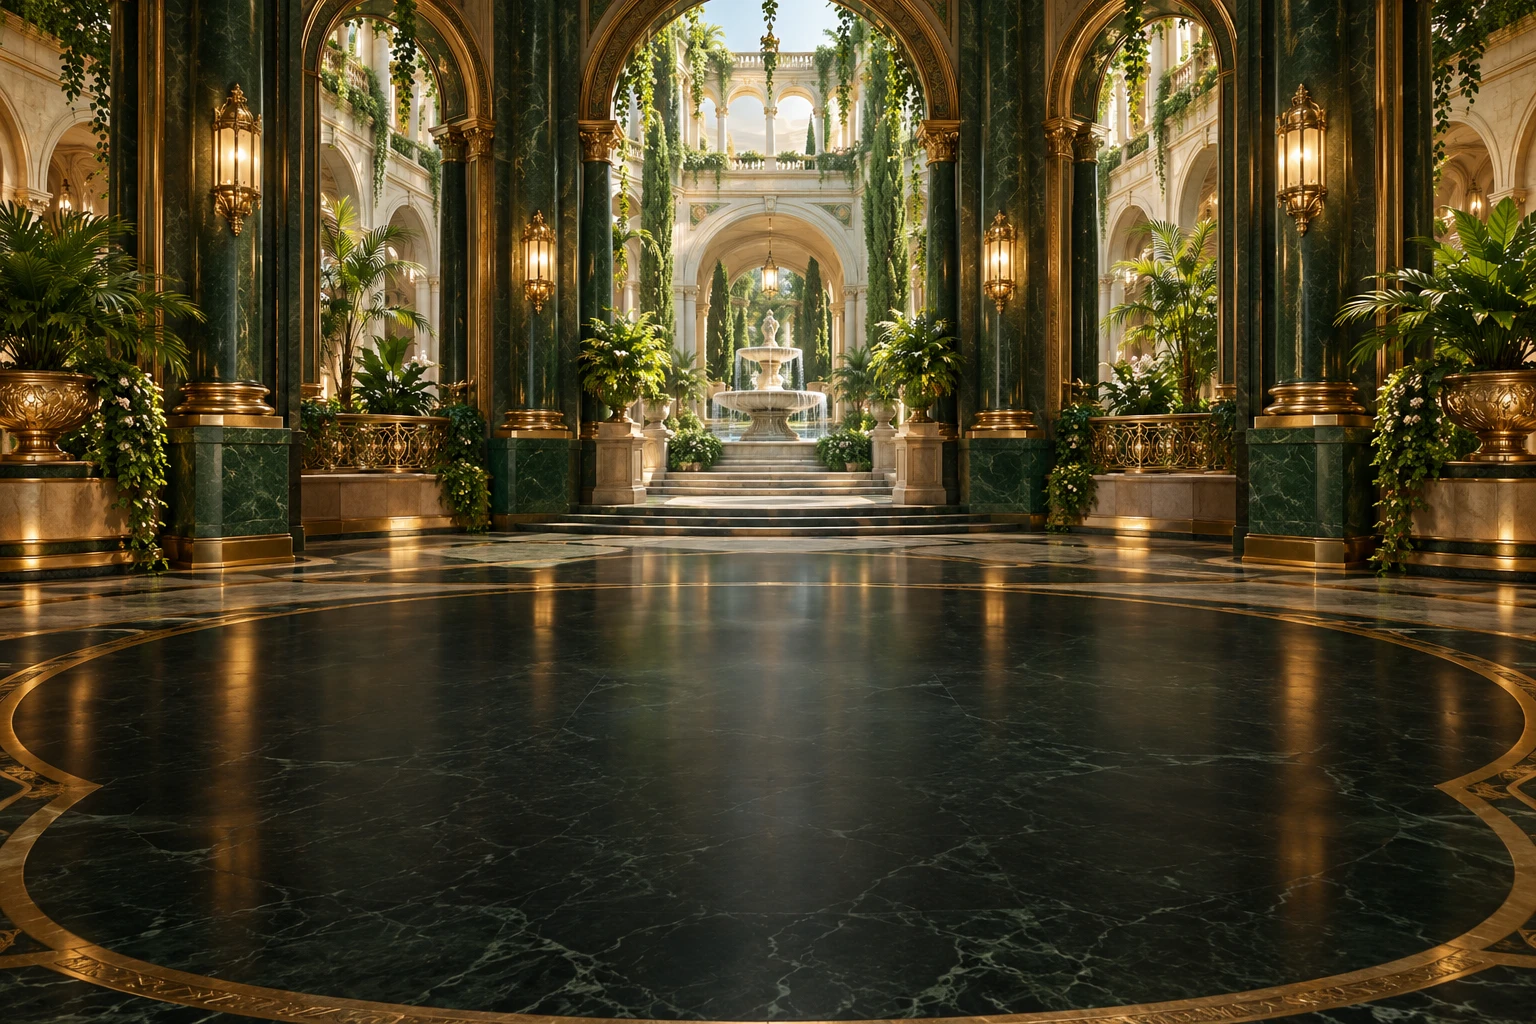
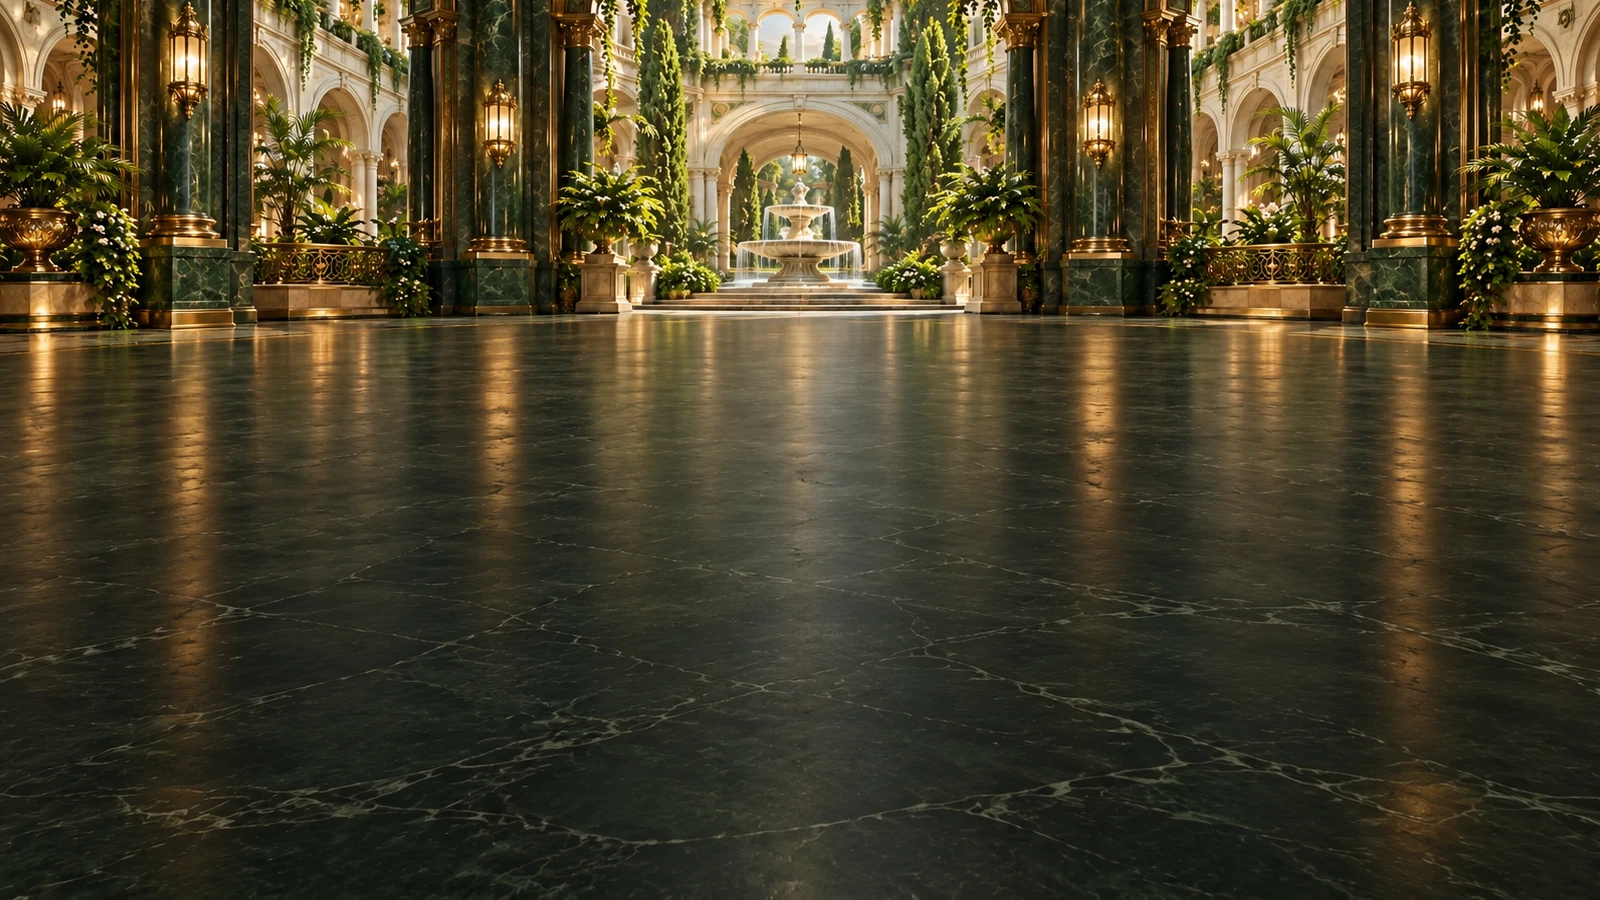
fix(poker): ground five themed rooms with corrected floor perspective

diff --git a/specs/792-premium-table-themes/perspective.md b/specs/792-premium-table-themes/perspective.md
@@ -1,0 +1,70 @@
+# Five room floor-plane corrections — 2026-10-10
+
+Owner requested background-only correction on Draft PR#1076. Runtime scope is exactly five existing room.webp files; no CSS, JS, dealer, table surface, card, frame, Classic or geometry change. Baseline commit92c554e65cc0bf0788e1a7a5fd9cb7c3a96ac491.
+
+## Measurements and selected composition
+
+Classic source1600×900; alternatives formerly1536×1024. Floor-wall junctions were estimated visually at the central rear plane (±20sourcepx before, ±10px after); this junction is **not the optical horizon**. Rendering bounds/center-cover mapping are measured exactly. No source camera/lens/physical dimensions exist, so this is art registration and composite review rather than recovered physical camera calibration or a mathematically unique optimum.
+
+Center-cover projection: scale=max(viewWidth/imageWidth,viewHeight/imageHeight); offsetY=(viewHeight-imageHeight×scale)/2; renderedFloorY=sourceFloorY×scale+offsetY.
+
+Classic rear-floor row350/900≈38.9% projects to≈328px portrait,142px landscape,350px desktop. Royal old centralrow was already close toClassic (338/139/354px), so its remaining visual issue involves architectural scale/depth and exaggerated near columns/reflections, not a row/aspect-ratio explanation alone. Neon/Sapphire rear boundaries were lower, Crimson/Emerald much lower, and foreground oval rings/steps further competed with the overlaid table.
+
+Royal first edit was inspected at390×844,844×390,1440×900 before generating other variants. Selected final16:9 composition uses≈34–36% rear-floor position, restrained distant furniture/columns/reflections and a continuous receding foreground floor. Floor covers≈64–66% of artwork. Near oval rugs/rings and raised platforms removed; Emerald distant fountain steps remain in the far architectural feature, outside the playing foreground. Hand-height suggestion was treated as a visual guide, not imposed as one pixel row across different responsive crops.
+
+| Theme | Before source floor row | After source floor row | Portrait before→after | Landscape before→after | Desktop before→after |
+|---|---:|---:|---:|---:|---:|
+| royal-gold | ~410/1024 | ~315/900 | ~338→295px | ~139→124px | ~354→315px |
+| neon-vegas | ~465/1024 | ~310/900 | ~383→291px | ~169→121px | ~406→310px |
+| midnight-sapphire | ~475/1024 | ~320/900 | ~392→300px | ~175→126px | ~415→320px |
+| crimson-velvet | ~600/1024 | ~320/900 | ~495→300px | ~243→126px | ~533→320px |
+| emerald-palace | ~565/1024 | ~315/900 | ~466→295px | ~224→124px | ~500→315px |
+
+## Validation
+
+Local before/after Chromium:18scenes (six choices×three viewports),18protected bounds exactly equal, card text unchanged, no page errors/overflow; background-position and background-size remain identical. SHA audit: only five rooms changed;33inventoried non-room files byte-identical (JS/CSS/Classic/dealers/vectors included). Existing syntax exits0; CSP guard52documents passes. No maintained UI/glue suite added. Native composite inspection checks furniture-floor contact cues, dealer/table grounding, style, readability and unobstructed foreground. Independent/exact Preview evidence in review.md. Earlier authenticated dealing/showdown/reconnect limitations remain; this correction does not change those paths.
+
+## Current corrected room inventory
+
+This supersedes earlier room.webp entries and package totals in artwork.md; all other layers retain their earlier recorded hashes. Every room1600×900 WebP, built-in imagegen edit of its prior room with Classic used only as composition reference. No API key/third-party pack/remote runtime art. Existing Sharp WebPquality90; Royal generated1672×941 exported with aspect-preserving cover resize; other four generated1672×941 have a small final artwork registration crop(left36,top41,width1600,height900), encoded directly, with no stretch or runtime position change. OpenAI terms source remains artwork.md.
+
+| Path | Dimensions | Bytes | SHA-256 | Current complete package bytes |
+|---|---|---:|---|---:|
[5 lines of base64/hex data omitted]
+
+## Exact built-in imagegen edit prompts
+
+### royal-gold
+
[1 lines of base64/hex data omitted]
+
+> Use case: precise-object-edit. High-quality production room background perspective correction for a poker game. Input image 1 is Classic Casino, ONLY the composition/camera/floor-plane reference. Input image 2 is the existing themed room to EDIT, preserve its distinctive architecture, palette, materials and lighting. Output a wide 16:9 1600x900 background. Correct the camera/composition so a seated player slightly looking down at an overlaid poker table sees a broad, continuous near floor. Match Classic's grounded camera and architectural scale; move the distant architecture higher in the artwork, reduce towering wall height, shorten exaggerated reflection lengths. Rear wall/window bottoms meet floor around y=315 of900 (35% from top; acceptable33–36%). Bottom65% is an uninterrupted receding dark floor plane. Floor lines converge coherently toward the centered upper-third distance. Distant furniture/pillars must sit firmly on the same floor. Do not add nearby raised platforms, steps, giant circular/oval rugs or ring outlines; they misregister against the overlaid table. Preserve premium crisp realistic detail, restrained reflections, visual quiet foreground. No people, dealer, poker table, cards, chips, UI, letters or logos. Change the room perspective, not its theme identity. Theme to preserve: Royal Gold, warm black-marble/gold Art Deco salon, chandeliers, gold columns and arched nighttime city windows.
+
+### neon-vegas
+
[1 lines of base64/hex data omitted]
+
+> Use case: precise-object-edit. High-quality production room background perspective correction for a poker game. Input image 1 is Classic Casino, ONLY the composition/camera/floor-plane reference. Input image 2 is the existing themed room to EDIT, preserve its distinctive architecture, palette, materials and lighting. Output a wide 16:9 1600x900 background. Correct the camera/composition so a seated player slightly looking down at an overlaid poker table sees a broad, continuous near floor. Match Classic's grounded camera and architectural scale; move the distant architecture higher in the artwork, reduce towering wall height, shorten exaggerated reflection lengths. Rear wall/window bottoms meet floor around y=315 of900 (35% from top; acceptable33–36%). Bottom65% is an uninterrupted receding dark floor plane. Floor lines converge coherently toward the centered upper-third distance. Distant furniture/pillars must sit firmly on the same floor. Do not add nearby raised platforms, steps, giant circular/oval rugs or ring outlines; they misregister against the overlaid table. Preserve premium crisp realistic detail, restrained reflections, visual quiet foreground. No people, dealer, poker table, cards, chips, UI, letters or logos. Change the room perspective, not its theme identity. Theme to preserve: Neon Vegas: modern violet/cyan/magenta neon penthouse casino, nighttime Vegas skyline/palm silhouettes, chrome/dark marble. Retain neon identity and architectural lighting; no warm-gold Classic style transfer.
+
+### midnight-sapphire
+
[1 lines of base64/hex data omitted]
+
+> Use case: precise-object-edit. High-quality production room background perspective correction for a poker game. Input image 1 is Classic Casino, ONLY the composition/camera/floor-plane reference. Input image 2 is the existing themed room to EDIT, preserve its distinctive architecture, palette, materials and lighting. Output a wide 16:9 1600x900 background. Correct the camera/composition so a seated player slightly looking down at an overlaid poker table sees a broad, continuous near floor. Match Classic's grounded camera and architectural scale; move the distant architecture higher in the artwork, reduce towering wall height, shorten exaggerated reflection lengths. Rear wall/window bottoms meet floor around y=315 of900 (35% from top; acceptable33–36%). Bottom65% is an uninterrupted receding dark floor plane. Floor lines converge coherently toward the centered upper-third distance. Distant furniture/pillars must sit firmly on the same floor. Do not add nearby raised platforms, steps, giant circular/oval rugs or ring outlines; they misregister against the overlaid table. Preserve premium crisp realistic detail, restrained reflections, visual quiet foreground. No people, dealer, poker table, cards, chips, UI, letters or logos. Change the room perspective, not its theme identity. Theme to preserve: Midnight Sapphire: refined navy/sapphire salon, cool silver diamond geometry, moonlit skyline/water view. Retain cool blue/silver identity; no warm-gold Classic style transfer.
+
+### crimson-velvet
+
[1 lines of base64/hex data omitted]
+
+> Use case: precise-object-edit. High-quality production room background perspective correction for a poker game. Input image 1 is Classic Casino, ONLY the composition/camera/floor-plane reference. Input image 2 is the existing themed room to EDIT, preserve its distinctive architecture, palette, materials and lighting. Output a wide 16:9 1600x900 background. Correct the camera/composition so a seated player slightly looking down at an overlaid poker table sees a broad, continuous near floor. Match Classic's grounded camera and architectural scale; move the distant architecture higher in the artwork, reduce towering wall height, shorten exaggerated reflection lengths. Rear wall/window bottoms meet floor around y=315 of900 (35% from top; acceptable33–36%). Bottom65% is an uninterrupted receding dark floor plane. Floor lines converge coherently toward the centered upper-third distance. Distant furniture/pillars must sit firmly on the same floor. Do not add nearby raised platforms, steps, giant circular/oval rugs or ring outlines; they misregister against the overlaid table. Preserve premium crisp realistic detail, restrained reflections, visual quiet foreground. No people, dealer, poker table, cards, chips, UI, letters or logos. Change the room perspective, not its theme identity. Theme to preserve: Crimson Velvet: burgundy velvet curtains, mahogany/antique gold private salon, warm lamps and the elegant sculpture niche. Reduce wall/niche scale to distant furnishings, all floor level, no platform.
+
+### emerald-palace
+
[1 lines of base64/hex data omitted]
+
+> Use case: precise-object-edit. High-quality production room background perspective correction for a poker game. Input image 1 is Classic Casino, ONLY the composition/camera/floor-plane reference. Input image 2 is the existing themed room to EDIT, preserve its distinctive architecture, palette, materials and lighting. Output a wide 16:9 1600x900 background. Correct the camera/composition so a seated player slightly looking down at an overlaid poker table sees a broad, continuous near floor. Match Classic's grounded camera and architectural scale; move the distant architecture higher in the artwork, reduce towering wall height, shorten exaggerated reflection lengths. Rear wall/window bottoms meet floor around y=315 of900 (35% from top; acceptable33–36%). Bottom65% is an uninterrupted receding dark floor plane. Floor lines converge coherently toward the centered upper-third distance. Distant furniture/pillars must sit firmly on the same floor. Do not add nearby raised platforms, steps, giant circular/oval rugs or ring outlines; they misregister against the overlaid table. Preserve premium crisp realistic detail, restrained reflections, visual quiet foreground. No people, dealer, poker table, cards, chips, UI, letters or logos. Change the room perspective, not its theme identity. Theme to preserve: Emerald Palace: green marble/gold arches, greenery, elegant distant fountain and warm daylight. Retain jade green palace identity. Far fountain sits beyond continuous floor; no steps/stairs/raised thresholds in foreground.
+

diff --git a/specs/792-premium-table-themes/review.md b/specs/792-premium-table-themes/review.md
@@ -114,3 +114,11 @@ All six selections × 390×844, 844×390, 1440×900 passed actual Preview Chromi
 Temporary evidence remains outside repository: /tmp/1076-local-all-report.json, /tmp/1076-remote-all-report.json, scene screenshots and waist crops. No maintained UI/CSS/glue suite was added. Independent final review is documented above; no critical/important issue.
 
 The following evidence commit changes only feature documentation/task status; verified commit paths contain no deployable runtime/configuration change, so the exact runtime Preview evidence remains valid. T017 satisfied; T011/T013 only retain manual authenticated live scope. Implementation ready, awaiting manual runtime verification; PR stays Draft.
+
+## Five background floor-plane corrections — 2026-10-10
+
+Scope: exactly five existing room.webp files plus feature documentation. Classic1600×900 has a visually estimated central floor junction near38.9%; original alternatives1536×1024 had near40–59%. Exact cover mapping at portrait gave≈328px Classic vs338–495px alternatives. Royal already had similar centralrow, so its correction also addresses architectural scale/depth/contact cues and reflection length. These visual estimates do not recover a physical camera calibration. Measurements, uncertainty, chosen proportions and exact prompts are in perspective.md.
+
+Built-in imagegen edits preserve each room’s identity and produce continuous receding foreground floors without competing oval rugs/raised platforms. Royal first candidate inspected in all three viewports before other edits. Final local rooms1600×900, approximate rear-floor rows310–320/900 (34–36%), within all budgets. All non-room files byte-identical; local inventory SHA audit found exactly five changed runtime assets and33unchanged inventoried files, including JS/CSS/Classic/dealers/vectors. No background-position/size or scene geometry edits.
+
+Temporary Chromium before/after capture18scenes (all six choices×390×844/844×390/1440×900):18protected bounds exactly equal, card text unchanged, no overflow/page errors; CSS background-position/size identical. Existing node syntax check exits0; CSP guard52served documents passes. Temporary static inspection tools/captures remain outside repository. Final independent review inspected all five corrected rooms at all three targets, confirmed improved grounding/style/no obstruction/budget compliance; no critical/important findings. Exact published Preview validation follows after push. Existing live authenticated dealing/showdown/reconnect limits remain pending; Draft retained.

diff --git a/specs/792-premium-table-themes/artwork.md b/specs/792-premium-table-themes/artwork.md
@@ -164,3 +164,19 @@ Room generation:
 
 > Use case: stylized-concept. Production high-quality photoreal casino room background, wide landscape 3:2 composition. opulent emerald palace casino salon, green marble and gold architecture, lush greenery, elegant arches and small distant fountain, warm daylight. Match a premium poker game's sophisticated realistic cinematic art direction. Symmetrical centered view with quiet dark central lower space for an overlaid poker table and dealer. Rich material texture, restrained atmospheric lighting, coherent perspective. Empty room: NO people, NO dealer, NO poker table in foreground, NO cards, NO chips, NO UI, NO text or logos. Architecture and lighting only.
 
+
+## Current five-room perspective replacement — 2026-10-10
+
+The room entries/package totals earlier in this historical record are superseded by [perspective.md](perspective.md), which records current1600×900 room hashes/bytes/budgets, reference measurements, output crop registration and exact built-in imagegen prompts. All non-room layers, Classic, JS and CSS stay byte-identical.
+
+## Current corrected room inventory
+
+This supersedes earlier room.webp entries and package totals in artwork.md; all other layers retain their earlier recorded hashes. Every room1600×900 WebP, built-in imagegen edit of its prior room with Classic used only as composition reference. No API key/third-party pack/remote runtime art. Existing Sharp WebPquality90; Royal generated1672×941 exported with aspect-preserving cover resize; other four generated1672×941 have a small final artwork registration crop(left36,top41,width1600,height900), encoded directly, with no stretch or runtime position change. OpenAI terms source remains artwork.md.
+
+| Path | Dimensions | Bytes | SHA-256 | Current complete package bytes |
+|---|---|---:|---|---:|
[5 lines of base64/hex data omitted]

diff --git a/specs/792-premium-table-themes/plan.md b/specs/792-premium-table-themes/plan.md
@@ -86,3 +86,7 @@ Regenerate only Royal Gold dealer art as a high-fidelity edit of the restored sp
 ## Complete six-package implementation
 
 Royal Gold checkpoint accepted by owner; RG06 satisfied. Complete four remaining packages using separate built-in imagegen dealer edits/empty rooms and original approved circuit/diamond/damask/jade-lattice vectors. All six catalog entries enabled; Classic remains unchanged. Reuse existing requested-only atomic loader/chooser and scoped CSS, including the full-torso foreground clip. Constitution Check against final runtime paths: PASS — browser art only, no geometry, new suites, dependencies/config, backend/WS/protocol, Stage or Production changes. Exact Preview and manual live limits recorded in review.md.
+
+## Floor-plane correction — images only
+
+Five room.webp replacements only under existing poker/assets/themes IDs. Compare source floor/wall junction estimates and exact center/cover projection against Classic1600×900; use its16:9 composition with a rear transition target around33–36% of image height and coherent receding foreground floor. These are visual registration estimates, not recovered physical camera calibration. Validate Royal first before editing the other rooms with built-in imagegen (Classic composition reference + existing room edit target). Remove foreground oval rug/step contours that imply a second table/raised platform. Encode existing local paths1600×900 WebP within600KiB; inspect every output in all three target viewports. No geometry/CSS/JS/Classic/dealer/vector/configuration/backend edits. Retain original images outside repository for before/after comparison. Constitution Check: PASS; temporary ad-hoc inspection outside repository, existing syntax/CSP checks, no new suites/dependencies/Stage effect. Record exact-room dimensions/hash/bytes/prompts and measured before/after floor rows, then verify same-PR exact-SHA Preview and independent review.

diff --git a/specs/792-premium-table-themes/tasks.md b/specs/792-premium-table-themes/tasks.md
@@ -73,3 +73,11 @@ The owner checkpoint in approval.md splits Phase 3 delivery. Full T007–T017 st
 ## Six-theme completion evidence
 
 All six packages implemented; RG06 accepted. T011/T013 remain partial only for authenticated live guest/spectator/reconnect/dealing/showdown/fold and comprehensive live-state contrast, to be inspected manually on Preview. Demo six-theme/error/race/reset/non-preview gates, protected geometry/card text, keyboard and reduced motion have been verified locally; exact-SHA Preview verification passed (T017), including all six packages, unchanged geometry/cards, error/race/reset/reload, keyboard/reduced motion, served raster hashes and native/high-DPI waist inspection. No new maintained test suites.
+
+## Owner-requested floor perspective correction
+
+- [x] FP01 Reproduce/measure original room aspect ratios, visual floor-wall transitions and center/cover mapping against Classic across390×844,844×390,1440×900; preserve baseline hashes/bounds outside repository.
+- [x] FP02 Edit Royal Gold room artwork with built-in imagegen against Classic composition, inspect proposed floor proportions in scene before producing other variants.
+- [x] FP03 Correct Neon/Sapphire/Crimson/Emerald room artwork using validated proportions; preserve styles and all non-room bytes; update current artwork manifest/prompts/budgets.
+- [x] FP04 Verify all five corrected floors in local portrait/landscape/desktop, unchanged protected geometry/card text/non-room hashes and existing checks; obtain independent review.
+- [ ] FP05 Publish five room replacements and feature docs on same Draft PR#1076; verify exact-SHA Preview/native scene/hash evidence, retain prior live-smoke limits.

diff --git a/specs/792-premium-table-themes/spec.md b/specs/792-premium-table-themes/spec.md
@@ -92,3 +92,7 @@ Players can read values, suits, names and actions on every package at existing c
 - Design boards are approval artifacts, not final geometry proof or ready-to-ship asset atlases. Final per-layer exports will be inspected at native size after approval.
 - Original generated artwork can be used for commercial project art subject to the provider terms; no exclusivity or third-party rights clearance is asserted. Provenance and export processing are recorded per file.
 - No Stage mutation or Production effect is intended. Netlify Deploy Preview is the only deployment target.
+
+## Owner-requested room perspective correction — 2026-10-10
+
+Correct only the five alternative room.webp images: the table/dealer appears too high above the background floor. Use Classic Casino as the composition/crop reference, measure source floor/wall transition and existing rendered geometry at portrait/landscape/desktop, then choose revised proportions by actual in-scene inspection. Do not move/resize table, dealer, hands, cards, HUD, controls or change CSS/JS/background-position/size. Preserve each room's accepted palette/materials/architecture; Classic and all non-room layers remain byte-identical.

diff --git a/specs/792-premium-table-themes/approval.md b/specs/792-premium-table-themes/approval.md
@@ -17,3 +17,7 @@ Owner checkpoint feedback: overall Royal Gold direction liked; replace the high-
 ## Remaining themes authorized — 2026-10-09
 
 Owner accepted the fuller generated Royal Gold dealer and its rail occlusion: “Super, to teraz implementuj pozostale motywy na tym samym pr.” RG06 is satisfied. Complete Neon Vegas, Midnight Sapphire, Crimson Velvet and Emerald Palace on Draft PR #1076 using the accepted full-torso Royal Gold identity/pose as the dealer reference.
+
+## Background perspective correction authorized — 2026-10-10
+
+Owner reported a floating table/dealer impression in all five alternatives, contrasted with Classic, and explicitly requested measuring perspective and modifying only room graphics. No table/dealer/other element movement authorized. This authorizes background edits on the same PR; no new layout/design scope or Production action. Result and chosen image proportions are documented in perspective.md.
